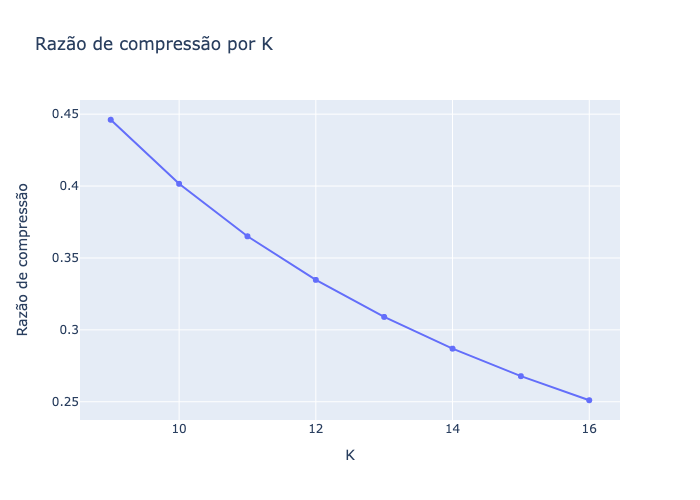
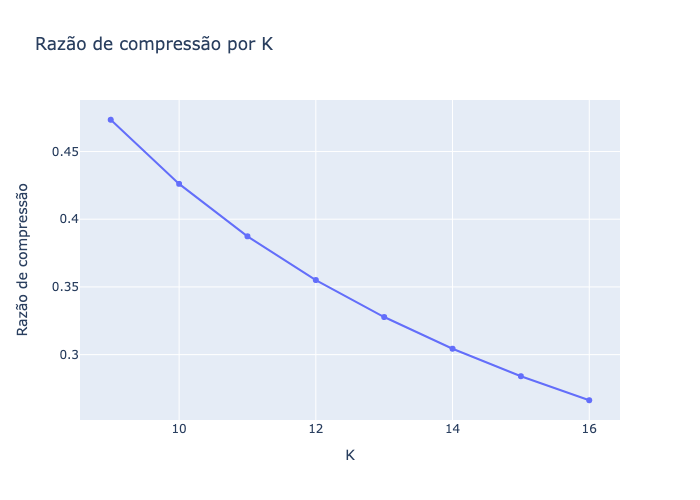
feat: add conditional file type to dictionary byte size

diff --git a/src/lzw.py b/src/lzw.py
@@ -17,22 +17,22 @@ class LZW:
         self.reversed_dictionary: dict
         self.compressed_message: list = []
 
-    def init_code_dictionary(self, k) -> Dict:
+    def init_code_dictionary(self, k, file_type) -> Dict:
         dictionary_size = pow(2, k - 1)
         dictionary = {}
         for i in range(dictionary_size):
             dictionary[i.to_bytes(
-                get_number_of_bytes_necessary_for_number(i), 'big')] = i
+                get_number_of_bytes_necessary_for_number(i, file_type), 'big')] = i
 
         return dictionary
 
-    def init_decode_dictionary(self, k) -> Dict:
+    def init_decode_dictionary(self, k, file_type) -> Dict:
         dictionary_size = pow(2, k - 1)
         dictionary = {}
 
         for i in range(dictionary_size):
             dictionary[f'{i}'] = i.to_bytes(
-                get_number_of_bytes_necessary_for_number(i), 'big')
+                get_number_of_bytes_necessary_for_number(i, file_type), 'big')
         return dictionary
 
     def compress(self, data, file_name, k):
@@ -40,7 +40,7 @@ class LZW:
             f'./data/large_inputs/compression/{file_name}.bin', 'wb')
 
         compressor = Compressor(
-            data=data, dictionary=self.init_code_dictionary(k))
+            data=data, dictionary=self.init_code_dictionary(k=k, file_type=file_name.split(".")[-1]))
         compressor_response = compressor.run()
 
         elapsed_time = compressor_response["time"]
@@ -61,7 +61,7 @@ class LZW:
 
     def decompress(self, data, k):
         decompressor = Decompressor(
-            data=data, dictionary=self.init_decode_dictionary(k))
+            data=data, dictionary=self.init_decode_dictionary(k=k, file_type=file_name.split(".")[-1]))
         decoded_message = decompressor.run()
 
         return decoded_message

diff --git a/src/utils/get_number_of_bytes_necessary_for_number.py b/src/utils/get_number_of_bytes_necessary_for_number.py
@@ -1,7 +1,13 @@
 import math
 
+extra_bytes = {
+    "txt": -6,
+    "png": -5,
+    "jpeg": -2,
+    "jpg": -2,
+    "mp4": 2
+}
 
-def get_number_of_bytes_necessary_for_number(i):
-    if i < 256:
-        return 1
-    return math.floor(math.log(i, 2)) - 6
+
+def get_number_of_bytes_necessary_for_number(i, file_type):
+    return 1 if i < 256 else math.floor(math.log(i, 2)) + (extra_bytes[file_type] or -6)
